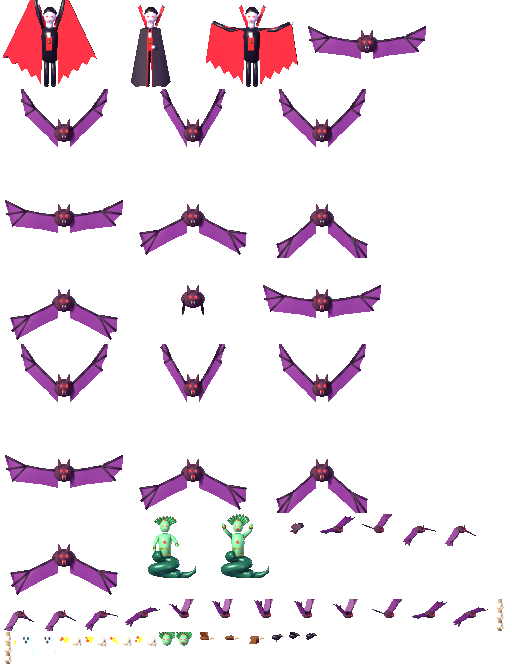
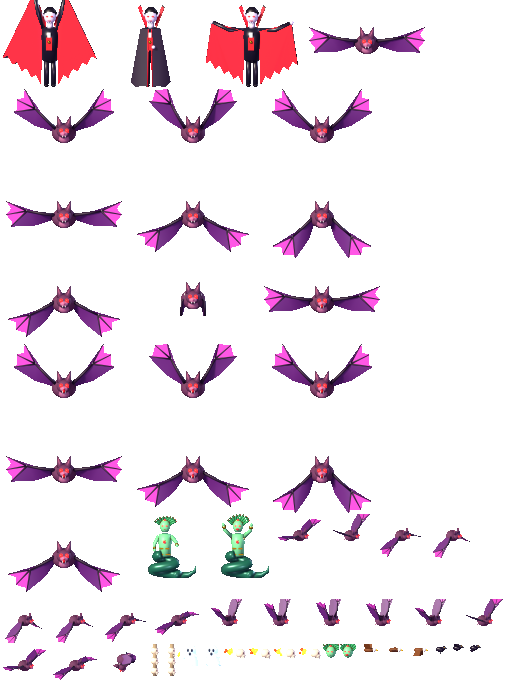
Fledermäuse hübscher: neues Blender-Modell – rundlicher Fellkörper mit Brustflaum, großer Kopf mit Spitzohren, Glutaugen, Nase und Fangzähnen, Flughäute mit gewellter, durchscheinender Hinterkante zwischen Fingerknochen, Daumenkrallen, Füßchen; kleine Fledermäuse größer und heller, Hängepose als Flü

diff --git a/index.html b/index.html
@@ -68,7 +68,7 @@
   <div class="tbtn" id="tStart" data-k="start">II</div>
   <div class="tbtn" id="tFull" data-k="full" aria-label="Vollbild"><svg viewBox="0 0 18 18" fill="none" stroke="currentColor" stroke-width="2"><path d="M1 6V1h5M12 1h5v5M17 12v5h-5M6 17H1v-5"/></svg></div>
 </div>
-<script>window.BUILD = '20261019-0751';
+<script>window.BUILD = '20261019-0807';
 // Lädt ein Spielskript nicht (z. B. kurzer 503 von GitHub Pages direkt nach einem Update), einmal automatisch neu laden
 window.addEventListener('error', function (e) {
   var el = e.target;
@@ -78,34 +78,34 @@ window.addEventListener('error', function (e) {
 }, true);
 window.addEventListener('load', function () { setTimeout(function () { try { sessionStorage.removeItem('nachtmahr.retry'); } catch (err) { /* privat */ } }, 8000); });
 </script>
-<script src="js/boot.js?v=20261019-0751"></script>
-<script src="js/view.js?v=20261019-0751"></script>
-<script src="js/options.js?v=20261019-0751"></script>
-<script src="js/i18n.js?v=20261019-0751"></script>
-<script src="js/font.js?v=20261019-0751"></script>
-<script src="js/sprites.js?v=20261019-0751"></script>
-<script src="js/sprites2.js?v=20261019-0751"></script>
-<script src="js/hero.js?v=20261019-0751"></script>
-<script src="js/chars3d.js?v=20261019-0751"></script>
-<script src="js/audio.js?v=20261019-0751"></script>
-<script src="js/voice.js?v=20261019-0751"></script>
-<script src="js/input.js?v=20261019-0751"></script>
-<script src="js/levels.js?v=20261019-0751"></script>
-<script src="js/ps2.js?v=20261019-0751"></script>
-<script src="js/tiles.js?v=20261019-0751"></script>
-<script src="js/fx.js?v=20261019-0751"></script>
-<script src="js/entities.js?v=20261019-0751"></script>
-<script src="js/enemies.js?v=20261019-0751"></script>
-<script src="js/grand.js?v=20261019-0751"></script>
-<script src="js/props.js?v=20261019-0751"></script>
-<script src="js/drama.js?v=20261019-0751"></script>
-<script src="js/mode7.js?v=20261019-0751"></script>
-<script src="js/bosses.js?v=20261019-0751"></script>
-<script src="js/expo.js?v=20261019-0751"></script>
-<script src="js/sprites16.js?v=20261019-0751"></script>
-<script src="js/creatures3d.js?v=20261019-0751"></script>
-<script src="js/world.js?v=20261019-0751"></script>
-<script src="js/scores.js?v=20261019-0751"></script>
-<script src="js/game.js?v=20261019-0751"></script>
+<script src="js/boot.js?v=20261019-0807"></script>
+<script src="js/view.js?v=20261019-0807"></script>
+<script src="js/options.js?v=20261019-0807"></script>
+<script src="js/i18n.js?v=20261019-0807"></script>
+<script src="js/font.js?v=20261019-0807"></script>
+<script src="js/sprites.js?v=20261019-0807"></script>
+<script src="js/sprites2.js?v=20261019-0807"></script>
+<script src="js/hero.js?v=20261019-0807"></script>
+<script src="js/chars3d.js?v=20261019-0807"></script>
+<script src="js/audio.js?v=20261019-0807"></script>
+<script src="js/voice.js?v=20261019-0807"></script>
+<script src="js/input.js?v=20261019-0807"></script>
+<script src="js/levels.js?v=20261019-0807"></script>
+<script src="js/ps2.js?v=20261019-0807"></script>
+<script src="js/tiles.js?v=20261019-0807"></script>
+<script src="js/fx.js?v=20261019-0807"></script>
+<script src="js/entities.js?v=20261019-0807"></script>
+<script src="js/enemies.js?v=20261019-0807"></script>
+<script src="js/grand.js?v=20261019-0807"></script>
+<script src="js/props.js?v=20261019-0807"></script>
+<script src="js/drama.js?v=20261019-0807"></script>
+<script src="js/mode7.js?v=20261019-0807"></script>
+<script src="js/bosses.js?v=20261019-0807"></script>
+<script src="js/expo.js?v=20261019-0807"></script>
+<script src="js/sprites16.js?v=20261019-0807"></script>
+<script src="js/creatures3d.js?v=20261019-0807"></script>
+<script src="js/world.js?v=20261019-0807"></script>
+<script src="js/scores.js?v=20261019-0807"></script>
+<script src="js/game.js?v=20261019-0807"></script>
 </body>
 </html>

diff --git a/js/creatures3d.js b/js/creatures3d.js
@@ -1,7 +1,7 @@
 // Vorgerenderte 3D-Kreaturen und Bosse (Blender) – ersetzen beim Laden die gezeichneten Sprites
 'use strict';
 (() => {
-  const MAP = {"count_cast":[0,0,100,88],"count_closed":[101,0,100,88],"count_open":[202,0,100,88],"gbat_flap0":[303,0,128,84],"gbat_flap1":[0,89,128,84],"gbat_flap2":[129,89,128,84],"gbat_flap3":[258,89,128,84],"gbat_flap4":[0,174,128,84],"gbat_flap5":[129,174,128,84],"gbat_flap6":[258,174,128,84],"gbat_flap7":[0,259,128,84],"gbat_fold":[129,259,128,84],"gbat_open0":[258,259,128,84],"gbat_open1":[0,344,128,84],"gbat_open2":[129,344,128,84],"gbat_open3":[258,344,128,84],"gbat_open4":[0,429,128,84],"gbat_open5":[129,429,128,84],"gbat_open6":[258,429,128,84],"gbat_open7":[0,514,128,84],"medusa_calm":[129,514,72,64],"medusa_hiss":[202,514,72,64],"bat_perch":[275,514,42,34],"bat_0":[318,514,40,32],"bat_1":[359,514,40,32],"bat_10":[400,514,40,32],"bat_11":[441,514,40,32],"bat_12":[0,599,40,32],"bat_13":[41,599,40,32],"bat_14":[82,599,40,32],"bat_15":[123,599,40,32],"bat_2":[164,599,40,32],"bat_3":[205,599,40,32],"bat_4":[246,599,40,32],"bat_5":[287,599,40,32],"bat_6":[328,599,40,32],"bat_7":[369,599,40,32],"bat_8":[410,599,40,32],"bat_9":[451,599,40,32],"pillar_0":[492,599,16,32],"pillar_1":[0,632,16,32],"ghost_0":[17,632,20,22],"ghost_1":[38,632,20,22],"skull_0":[59,632,24,18],"skull_1":[84,632,24,18],"skull_2":[109,632,24,18],"skull_3":[134,632,24,18],"medusahead_0":[159,632,16,16],"medusahead_1":[176,632,16,16],"eagle_0":[193,632,24,12],"eagle_1":[218,632,24,12],"eagle_2":[243,632,24,12],"raven_perch":[268,632,16,10],"raven_fly0":[285,632,16,8],"raven_fly1":[302,632,16,8]};
+  const MAP = {"count_cast":[0,0,100,88],"count_closed":[101,0,100,88],"count_open":[202,0,100,88],"gbat_flap0":[303,0,128,84],"gbat_flap1":[0,89,128,84],"gbat_flap2":[129,89,128,84],"gbat_flap3":[258,89,128,84],"gbat_flap4":[0,174,128,84],"gbat_flap5":[129,174,128,84],"gbat_flap6":[258,174,128,84],"gbat_flap7":[0,259,128,84],"gbat_fold":[129,259,128,84],"gbat_open0":[258,259,128,84],"gbat_open1":[0,344,128,84],"gbat_open2":[129,344,128,84],"gbat_open3":[258,344,128,84],"gbat_open4":[0,429,128,84],"gbat_open5":[129,429,128,84],"gbat_open6":[258,429,128,84],"gbat_open7":[0,514,128,84],"medusa_calm":[129,514,72,64],"medusa_hiss":[202,514,72,64],"bat_0":[275,514,50,44],"bat_1":[326,514,50,44],"bat_10":[377,514,50,44],"bat_11":[428,514,50,44],"bat_12":[0,599,50,44],"bat_13":[51,599,50,44],"bat_14":[102,599,50,44],"bat_15":[153,599,50,44],"bat_2":[204,599,50,44],"bat_3":[255,599,50,44],"bat_4":[306,599,50,44],"bat_5":[357,599,50,44],"bat_6":[408,599,50,44],"bat_7":[459,599,50,44],"bat_8":[0,644,50,44],"bat_9":[51,644,50,44],"bat_perch":[102,644,44,40],"pillar_0":[147,644,16,32],"pillar_1":[164,644,16,32],"ghost_0":[181,644,20,22],"ghost_1":[202,644,20,22],"skull_0":[223,644,24,18],"skull_1":[248,644,24,18],"skull_2":[273,644,24,18],"skull_3":[298,644,24,18],"medusahead_0":[323,644,16,16],"medusahead_1":[340,644,16,16],"eagle_0":[357,644,24,12],"eagle_1":[382,644,24,12],"eagle_2":[407,644,24,12],"raven_perch":[432,644,16,10],"raven_fly0":[449,644,16,8],"raven_fly1":[466,644,16,8]};
   const img = new Image();
   img.onload = () => {
     const fr = (n, outline = true) => { const r = MAP[n], c = Sprites.canvas(r[2], r[3]); c.getContext('2d').drawImage(img, r[0], r[1], r[2], r[3], 0, 0, r[2], r[3]); return Sprites.fromCanvas(c, outline); };
